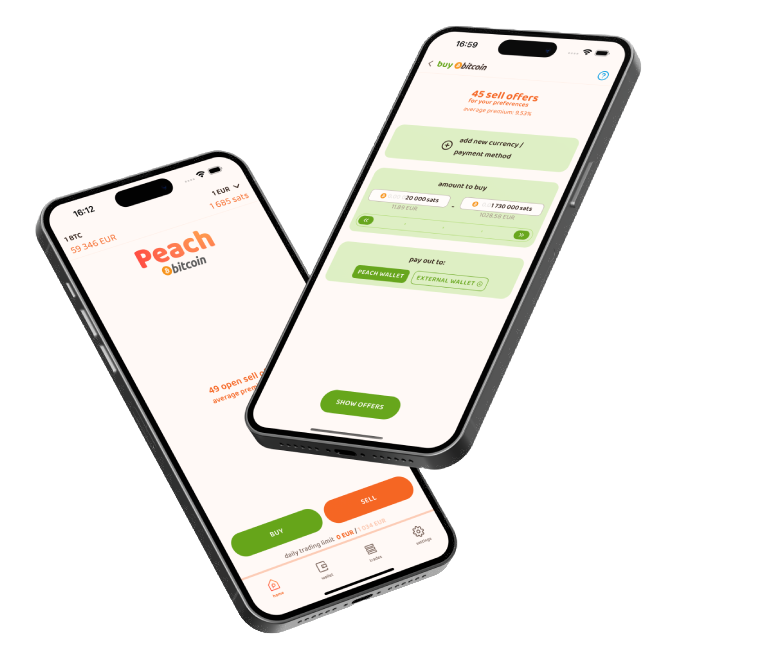
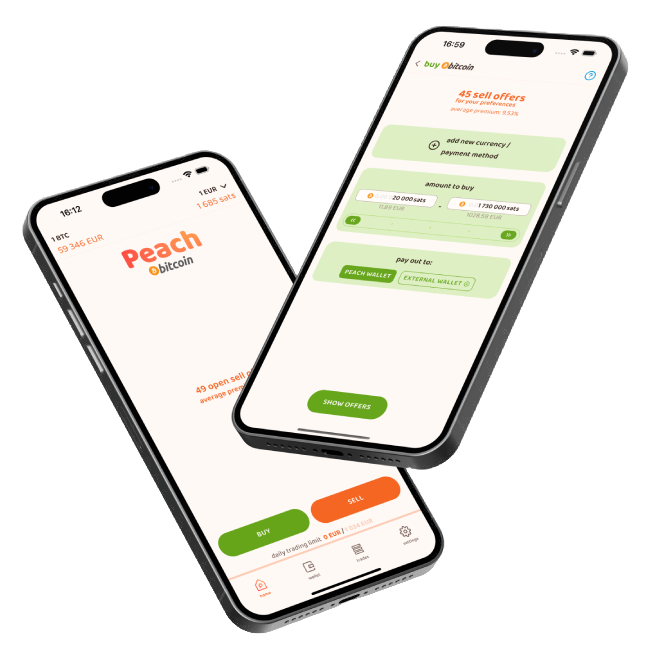
bigger index img

Changed region(s): [[0.031, 0.0305, 0.9907, 0.9771]]

diff --git a/src/css/pages/page.css b/src/css/pages/page.css
@@ -120,7 +120,7 @@
 
   & img {
     max-width: 100%;
-    max-height: 35vh;
+    /* max-height: 35vh; */
 
     @media (--up_to_M) {
       max-width: 90%;
